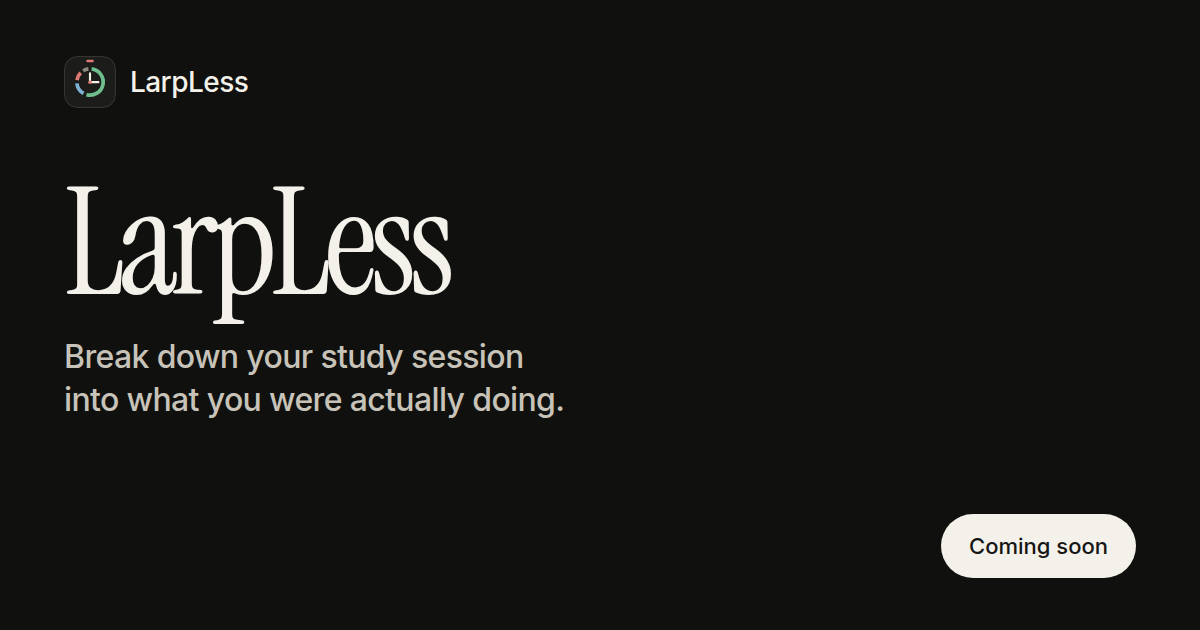
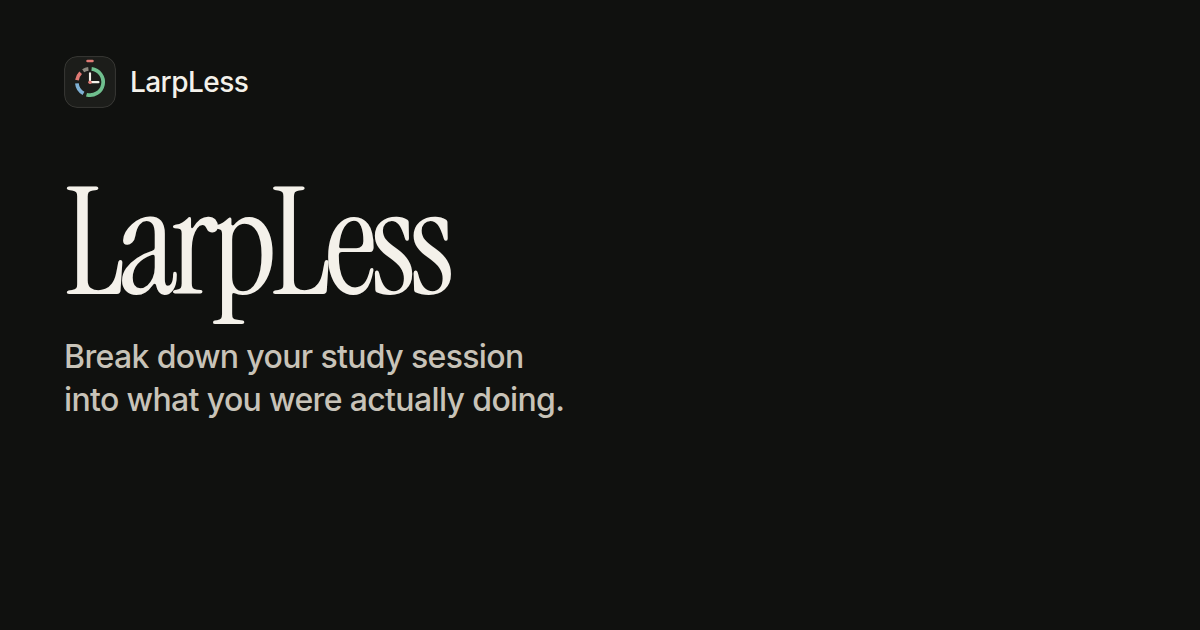
feat(site): enhance score display and readability

Changed region(s): [[0.7708, 0.8143, 0.9558, 0.9349]]

diff --git a/site/index.html b/site/index.html
@@ -26,7 +26,7 @@
     <meta property="og:image:type" content="image/png" />
     <meta property="og:image:width" content="1200" />
     <meta property="og:image:height" content="630" />
-    <meta property="og:image:alt" content="LarpLess. Break down your study session into what you were actually doing. Coming soon." />
+    <meta property="og:image:alt" content="LarpLess. Break down your study session into what you were actually doing." />
     <meta name="twitter:card" content="summary_large_image" />
     <meta name="twitter:title" content="LarpLess: Study tracker for Mac and Windows" />
     <meta
@@ -34,7 +34,7 @@
       content="Break down your study session into what you were actually doing. On-device study tracker for Mac and Windows. Screenshots never leave your computer."
     />
     <meta name="twitter:image" content="__SITE_ORIGIN__/og.png" />
-    <meta name="twitter:image:alt" content="LarpLess. Break down your study session into what you were actually doing. Coming soon." />
+    <meta name="twitter:image:alt" content="LarpLess. Break down your study session into what you were actually doing." />
     <link rel="icon" href="./logo.svg" type="image/svg+xml" />
     <link rel="apple-touch-icon" href="./logo.png" />
     <link rel="preload" href="./home.webp" as="image" type="image/webp" />
@@ -136,7 +136,7 @@
                 <p class="time">1:42:10</p>
                 <p class="when">Thursday afternoon</p>
               </div>
-              <p class="pct"><span>86%</span> focused</p>
+              <p class="pct"><span>84%</span> focused</p>
             </div>
             <div class="score-hit">
               <div class="bar">
@@ -186,6 +186,11 @@
                 <li data-seg><i class="swatch gone" aria-hidden="true"></i> Away 8%</li>
               </ul>
             </div>
+            <p class="score-hint">
+              <svg class="ico" viewBox="0 0 16 16" aria-hidden="true"><path d="M4 2.5l8.5 5.2-3.9.9 2.2 4.1-1.7.9-2.2-4.1-2.9 2.6z"/></svg>
+              <span class="hint-hover">Hover a colour to see its minutes. Study splits into subjects.</span>
+              <span class="hint-touch">Tap a colour to see its minutes. Study splits into subjects.</span>
+            </p>
           </div>
         </section>
 
@@ -313,7 +318,7 @@
         <section class="band" id="friends">
           <div class="section-head">
             <h2>Friends.</h2>
-            <p>Post the score. Let your friends keep you accountable.</p>
+            <p>Post your score. Let your friends keep you accountable.</p>
           </div>
           <div class="feed">
             <article class="post">
@@ -324,7 +329,7 @@
               <p class="caption">Problem sets until the library closed.</p>
               <div class="post-stats">
                 <p><span>1:42:10</span></p>
-                <p><span>86%</span> focused</p>
+                <p><span>84%</span> focused</p>
               </div>
               <div class="bar" role="img" aria-label="Study 62 percent, break 18 percent, distracted 12 percent, away 8 percent">
                 <span class="seg bio" style="flex: 62"></span>
@@ -352,7 +357,7 @@
                 <p><span>54:20</span></p>
                 <p><span>71%</span> focused</p>
               </div>
-              <div class="bar" role="img" aria-label="History 71 percent, distracted 19 percent, away 10 percent">
+              <div class="bar" role="img" aria-label="Study 71 percent, distracted 19 percent, away 10 percent">
                 <span class="seg bio" style="flex: 71"></span>
                 <span class="seg drift" style="flex: 19"></span>
                 <span class="seg gone" style="flex: 10"></span>
@@ -409,7 +414,7 @@
                     <span class="term-line"><span class="term-p" aria-hidden="true">$</span><code class="term-cmd">./larpless/scripts/fresh-run-mac.sh 8081</code></span>
                   </div>
                   <div class="term-lines" id="term-win" data-os="win" role="tabpanel" aria-labelledby="os-win" hidden>
-                    <span class="term-line term-note">Needs Windows 10/11, Visual Studio 2026, .NET 10 and Node 22</span>
+                    <span class="term-line term-note">Needs Windows 10/11, Visual Studio 2026, Node 22 and .NET 10</span>
                     <span class="term-line"><span class="term-p" aria-hidden="true">&gt;</span><code class="term-cmd">git clone https://github.com/AlperErg/larpless.git</code></span>
                     <span class="term-line"><span class="term-p" aria-hidden="true">&gt;</span><code class="term-cmd">cd larpless\larpless; npm ci</code></span>
                     <span class="term-line"><span class="term-p" aria-hidden="true">&gt;</span><code class="term-cmd">powershell -ExecutionPolicy Bypass -File scripts\run-windows.ps1</code></span>

diff --git a/site/src/main.ts b/site/src/main.ts
@@ -184,10 +184,36 @@ function bindScoreBar() {
     return -1;
   };
 
+  // Play the split once when the bar first comes into view, so people learn it opens.
+  let touched = false;
+  const explore = () => {
+    touched = true;
+    summary.classList.add('explored');
+  };
+  const reduce = window.matchMedia('(prefers-reduced-motion: reduce)').matches;
+  if (!reduce && 'IntersectionObserver' in window) {
+    const intro = new IntersectionObserver(
+      (entries) => {
+        if (!entries.some((entry) => entry.isIntersecting)) return;
+        intro.disconnect();
+        window.setTimeout(() => {
+          if (touched) return;
+          paint(0);
+          window.setTimeout(() => {
+            if (!touched) paint(null);
+          }, 2600);
+        }, 1100);
+      },
+      { threshold: 0.9 },
+    );
+    intro.observe(zone);
+  }
+
   if (coarse) {
     zone.addEventListener('click', (event) => {
       const index = indexOf(event.target);
       if (index < 0) return;
+      explore();
       paint(segs[index]?.classList.contains('hot') ? null : index);
     });
     return;
@@ -195,7 +221,9 @@ function bindScoreBar() {
 
   zone.addEventListener('pointerover', (event) => {
     const index = indexOf(event.target);
-    if (index >= 0) paint(index);
+    if (index < 0) return;
+    explore();
+    paint(index);
   });
   zone.addEventListener('pointerleave', () => {
     const active = document.activeElement;
@@ -204,7 +232,9 @@ function bindScoreBar() {
   });
   zone.addEventListener('focusin', (event) => {
     const index = indexOf(event.target);
-    if (index >= 0) paint(index);
+    if (index < 0) return;
+    explore();
+    paint(index);
   });
   zone.addEventListener('focusout', (event) => {
     const next = event.relatedTarget;
@@ -245,7 +275,8 @@ function bindTerminal() {
     tab.addEventListener('keydown', (event) => {
       if (event.key !== 'ArrowRight' && event.key !== 'ArrowLeft') return;
       event.preventDefault();
-      const target = tabs[(index + 1) % tabs.length];
+      const step = event.key === 'ArrowRight' ? 1 : -1;
+      const target = tabs[(index + step + tabs.length) % tabs.length];
       target.focus();
       select(target.dataset.os as Os);
     });
@@ -280,8 +311,27 @@ function bindTerminal() {
   });
 }
 
-paintHeat();
+/** On phones the two-row header tucks away while scrolling down and returns on the way up. */
+function tuckHeader() {
+  const top = document.querySelector<HTMLElement>('.top');
+  if (!top) return;
+  const small = window.matchMedia('(max-width: 720px)');
+  let last = window.scrollY;
+  // Cheap enough (a class toggle) to run on every scroll event without frame batching.
+  const update = () => {
+    const y = window.scrollY;
+    const keep = !small.matches || y < 120 || top.contains(document.activeElement);
+    if (keep || y < last - 4) top.classList.remove('tucked');
+    else if (y > last + 4) top.classList.add('tucked');
+    last = y;
+  };
+  window.addEventListener('scroll', update, { passive: true });
+  top.addEventListener('focusin', () => top.classList.remove('tucked'));
+  small.addEventListener('change', update);
+}
+
 revealOnScroll();
 ipadScroll();
 bindScoreBar();
 bindTerminal();
+tuckHeader();

diff --git a/site/src/style.css b/site/src/style.css
@@ -175,6 +175,20 @@ a:hover {
   top: 12px;
 }
 
+.skip:hover {
+  color: var(--bg);
+}
+
+@media (max-width: 720px) {
+  .top {
+    transition: transform 320ms var(--ease);
+  }
+
+  .top.tucked {
+    transform: translateY(-100%);
+  }
+}
+
 .top {
   position: sticky;
   top: 0;
@@ -438,6 +452,23 @@ a:hover {
   .ipad {
     width: min(100%, calc((100dvh - 11rem) * 2000 / 1364));
     margin-top: 0.5rem;
+  }
+}
+
+/* On phones the whole window shrinks past reading size, so the frame zooms in on
+   the main column: the title, Start session and Pomodoro (x 470–1330, y 210–970 of 2000×1364). */
+@media (max-width: 600px) {
+  .ipad {
+    width: 100%;
+    aspect-ratio: 860 / 760;
+  }
+
+  .ipad-screen img {
+    width: 232.56%;
+    max-width: none;
+    height: auto;
+    margin: -24.42% 0 0 -54.65%;
+    object-fit: fill;
   }
 }
 
@@ -830,7 +861,7 @@ section {
 }
 
 #score .seg-name {
-  font-size: 11px;
+  font-size: 13px;
   font-weight: 600;
   letter-spacing: 0.01em;
   line-height: 1;
@@ -931,6 +962,41 @@ section {
 
 #score .legend li.hot {
   color: var(--ink);
+}
+
+.score-hint {
+  display: flex;
+  align-items: center;
+  gap: 8px;
+  margin-top: 18px;
+  color: var(--faint);
+  font-size: 14px;
+  transition: opacity 400ms ease;
+}
+
+.score-hint .ico {
+  width: 14px;
+  height: 14px;
+}
+
+.score-hint .hint-touch {
+  display: none;
+}
+
+@media (pointer: coarse) {
+  .score-hint .hint-hover,
+  .score-hint .ico {
+    display: none;
+  }
+
+  .score-hint .hint-touch {
+    display: inline;
+  }
+}
+
+/* Once someone has opened a segment, the hint has done its job. */
+#score .summary.explored .score-hint {
+  opacity: 0.45;
 }
 
 @keyframes rise {
@@ -1670,6 +1736,10 @@ figure.reveal.in img {
   .soon::after {
     content: none;
   }
+
+  .top {
+    transition: none;
+  }
 }
 
 /* GitHub calls to action */
@@ -1880,10 +1950,11 @@ a.soon:focus-visible {
 
 .term-note {
   display: block;
-  margin-bottom: 4px;
-  color: var(--faint);
+  margin-bottom: 6px;
+  color: var(--muted);
   font-family: var(--sans);
-  font-size: 13px;
+  font-size: 14px;
+  font-weight: 500;
 }
 
 .term-p {
